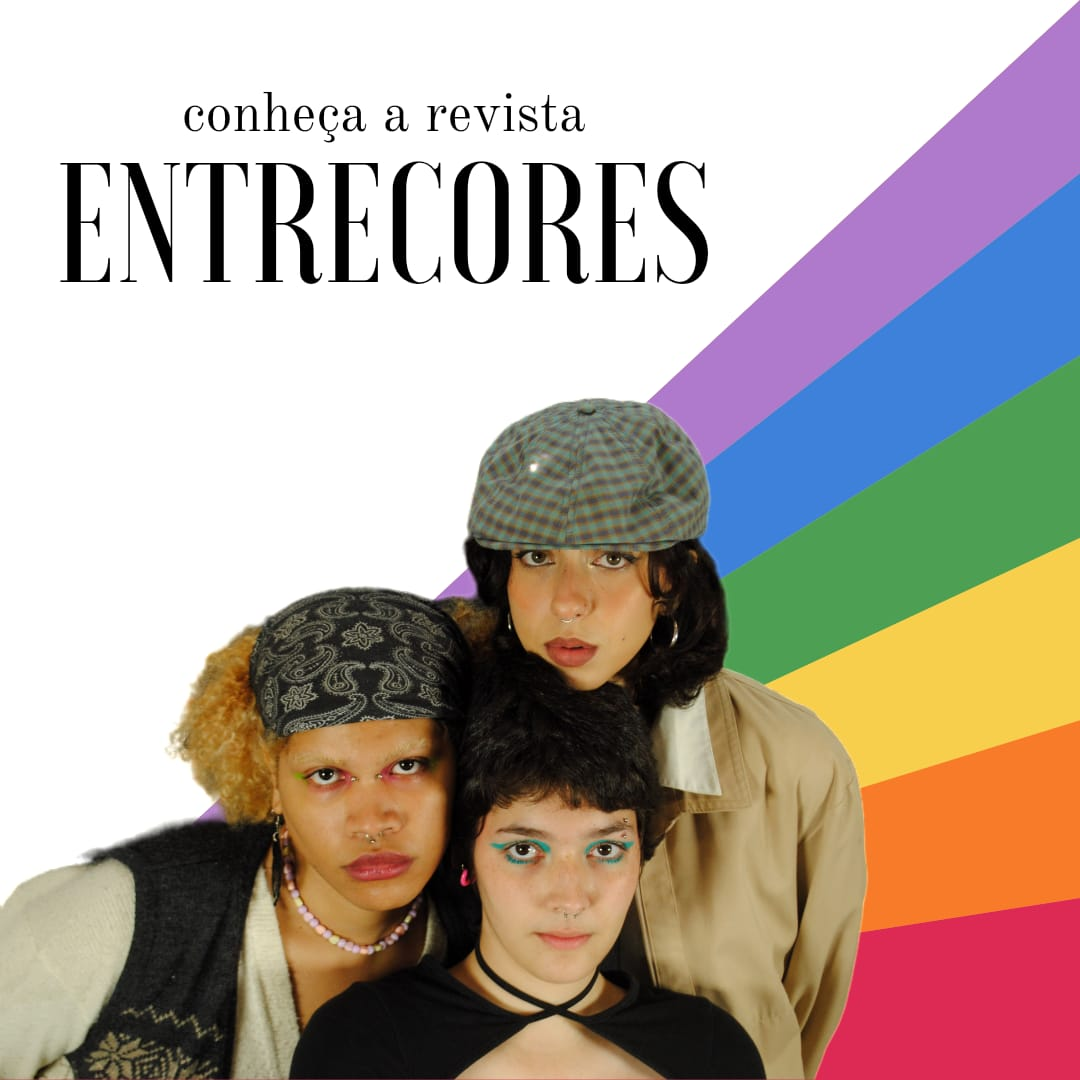
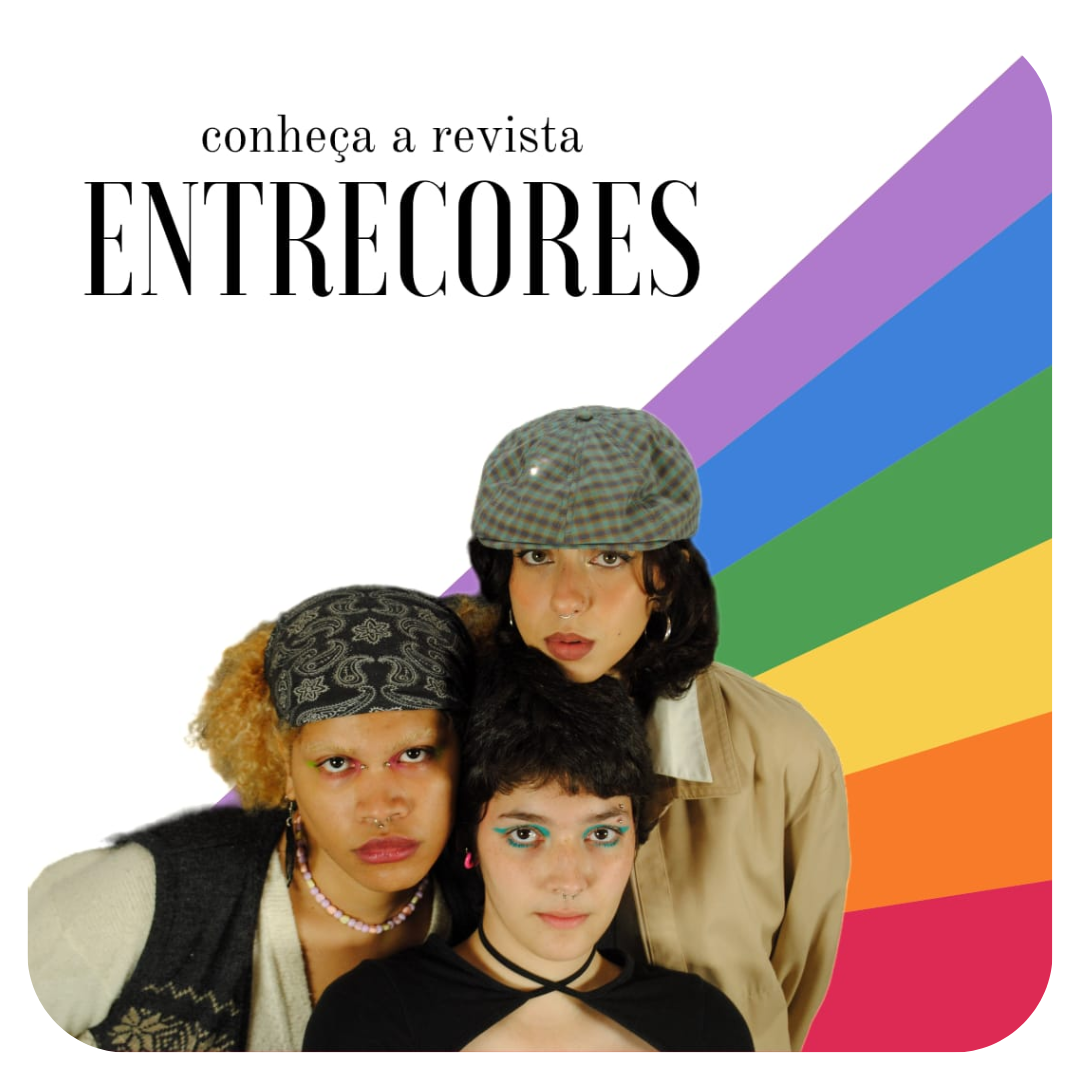
adjust scroll reveal, main.js, img home page

diff --git a/revista.html b/revista.html
@@ -52,12 +52,15 @@
                 </div>
 
                 <div class="home__img">
-                    <svg class="home__blob" viewBox="0 0 479 467" xmlns="http://www.w3.org/2000/svg" xmlns:xlink="http://www.w3.org/1999/xlink">
+                    <!--<svg class="revista__blob" viewBox="0 0 479 467" xmlns="http://www.w3.org/2000/svg" xmlns:xlink="http://www.w3.org/1999/xlink">
                         
                         
-                            <image class="home__blob-img" x="50" y="50" href="img/entrecores.png"/>
+                            <image class="revista__blob-img" x="50" y="20" href="img/entrecores.png"/>
                         
-                    </svg>
+                    </svg>-->
+
+                    <img src="img/entrecores.png"/>
+
                 </div>
             </section>
 
@@ -103,3 +106,12 @@
             </div>
             <p class="footer__copy"> Copyright &#169; 2025 Marlon | This page includes modifications by Vinícius Del Ciello</p>
         </footer>
+
+                <!--===== SCROLL REVEAL =====-->
+                <script src="https://unpkg.com/scrollreveal"></script>
+
+                <!--===== MAIN JS =====-->
+                <script src="main.js"></script>
+            </body>
+        </html>
+        

diff --git a/styles.css b/styles.css
@@ -497,6 +497,19 @@ img {
 /* REVISTA */
 
 
+.revista__img {
+  position: absolute;
+  right: 0;
+  bottom: 0;
+  width: 260px;
+}
+.revista__blob {
+  fill: var(--first-color);
+}
+.revista__blob-img {
+  width: 360px;
+}
+
 .home__title-color2 {
   background: linear-gradient(to right, purple, blue, green, yellow, orange, red);
   background-clip: text; /* Versão padrão */
